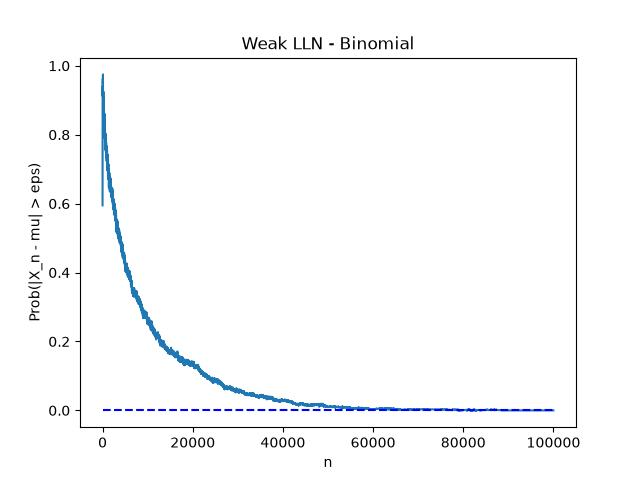
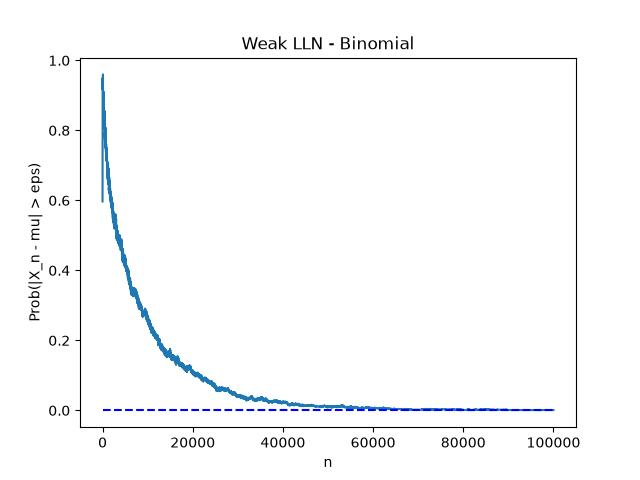
Strong law

diff --git a/03_convergence/01_lln/lln.py b/03_convergence/01_lln/lln.py
@@ -1,5 +1,8 @@
 import numpy as np
 from matplotlib import pyplot as plt
+import io
+from PIL import Image
+
 
 def sample_mean_convergence(distribution, theopretical_mean, picture_path):
 
@@ -46,11 +49,42 @@ def save_weak_lln_plot(prob, picture_path, title):
     fig.savefig(picture_path)
 
 
-prob = weak_lln(np.random.exponential, 1)
-save_weak_lln_plot(prob, '03_convergence/01_lln/figures/exponential_dist_weak_lln.jpeg', title="Weak LLN - Exponential")
+# prob = weak_lln(np.random.exponential, 1)
+# save_weak_lln_plot(prob, '03_convergence/01_lln/figures/exponential_dist_weak_lln.jpeg', title="Weak LLN - Exponential")
 
 
-prob = weak_lln(lambda size: np.random.binomial(5, 0.2, size), 1)
-save_weak_lln_plot(prob, '03_convergence/01_lln/figures/binomial_dist_weak_lln.jpeg', title="Weak LLN - Binomial")
+# prob = weak_lln(lambda size: np.random.binomial(5, 0.2, size), 1)
+# save_weak_lln_plot(prob, '03_convergence/01_lln/figures/binomial_dist_weak_lln.jpeg', title="Weak LLN - Binomial")
 
+
+def strong_lln(distribution, theoretical_mean: float, image_path: str, n: int = 100000, N: int = 10000):
+    images = []
+    X = distribution(size=(n, N))
+
+    X_bar = np.cumsum(X, axis=0) / np.arange(1, X.shape[0] + 1)[:, None]
+
+    sigma = np.max(np.std(X_bar, axis=1))
+
+    for i in range(0, n, 1000):
+        fig, ax = plt.subplots()
+        ax.hist(X_bar[i, :], bins=30, density=True, alpha=0.6)
+        ax.set_xlim(theoretical_mean - 3*sigma, theoretical_mean + 3*sigma)
+        ax.set_title(f"Convergence at step n = {i}")
+        buffer = io.BytesIO()
+        plt.savefig(buffer, format="png")
+        buffer.seek(0)
+
+        images.append(Image.open(buffer).copy())
+
+        plt.close(fig)
+
+    images[0].save(
+            image_path,
+            save_all=True,
+            append_images=images[1:],
+            duration=300,
+            loop=0
+        )
+
+X_bar = strong_lln(np.random.exponential, 1, '03_convergence/01_lln/figures/strong_lln_exponential.gif')
 

diff --git a/03_convergence/01_lln/lln.md b/03_convergence/01_lln/lln.md
@@ -31,6 +31,21 @@ With the exponential distribution:
 
 
 Then the binomial:
+
 ![Binomial_weak](./figures/binomial_dist_weak_lln.jpeg)
 
 In both cases it's clear how the probability tends to 0 as the theorem states.
+
+
+What about the strong law? We can a very similar process and see how it converges.
+
+- We perform `N=10000` experiments
+    - In each experiment we get `n` observartions from our chosen distribution (in our case `np.random.exponential`).
+- We check the distribution on each step for all experiments.
+
+With the exponential distribution:
+
+![Exponential_strong](./figures/strong_lln_exponential.gif)
+
+
+We see how the distribution collapses into the point $\mu = 1$ which is the mean.
